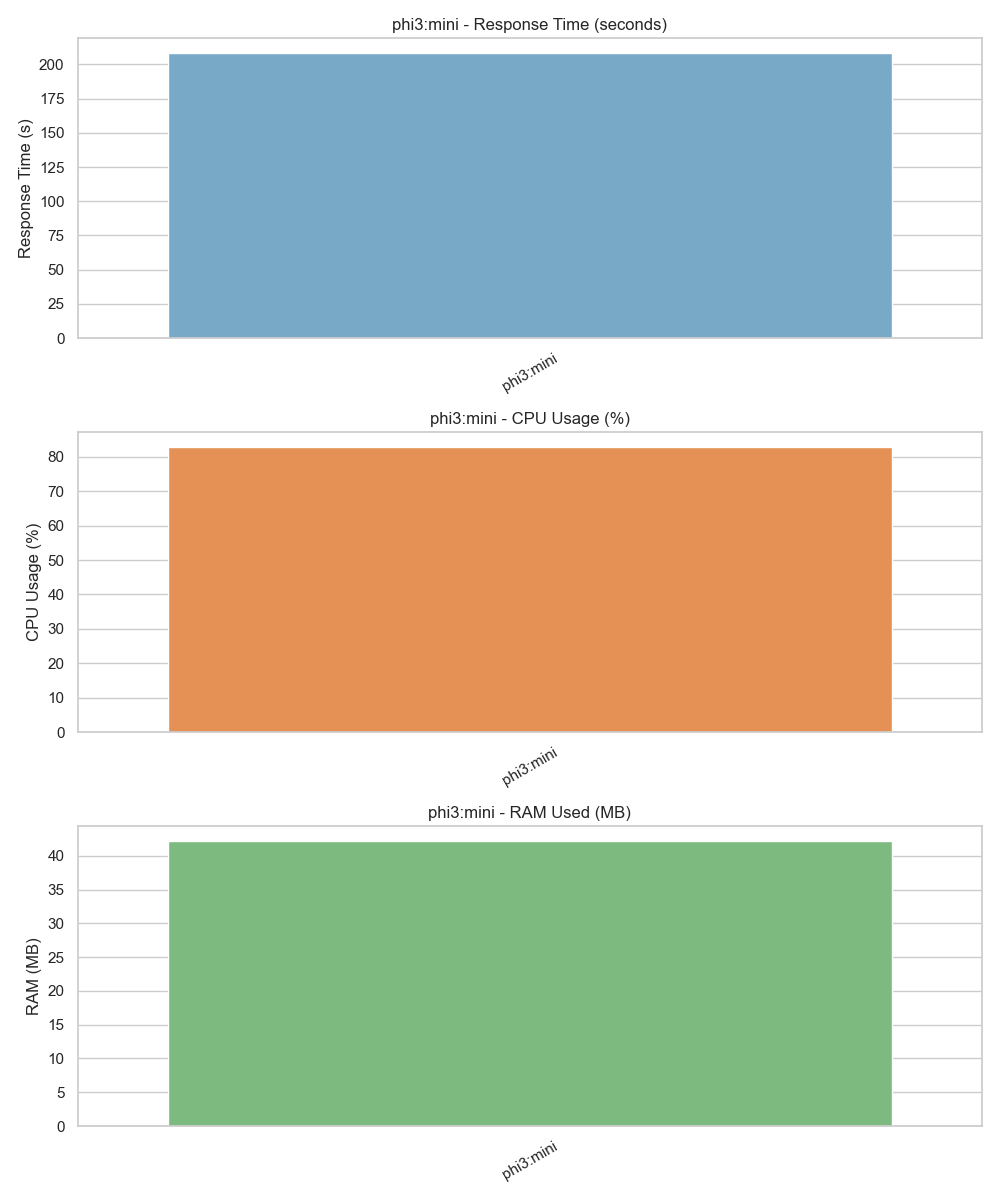
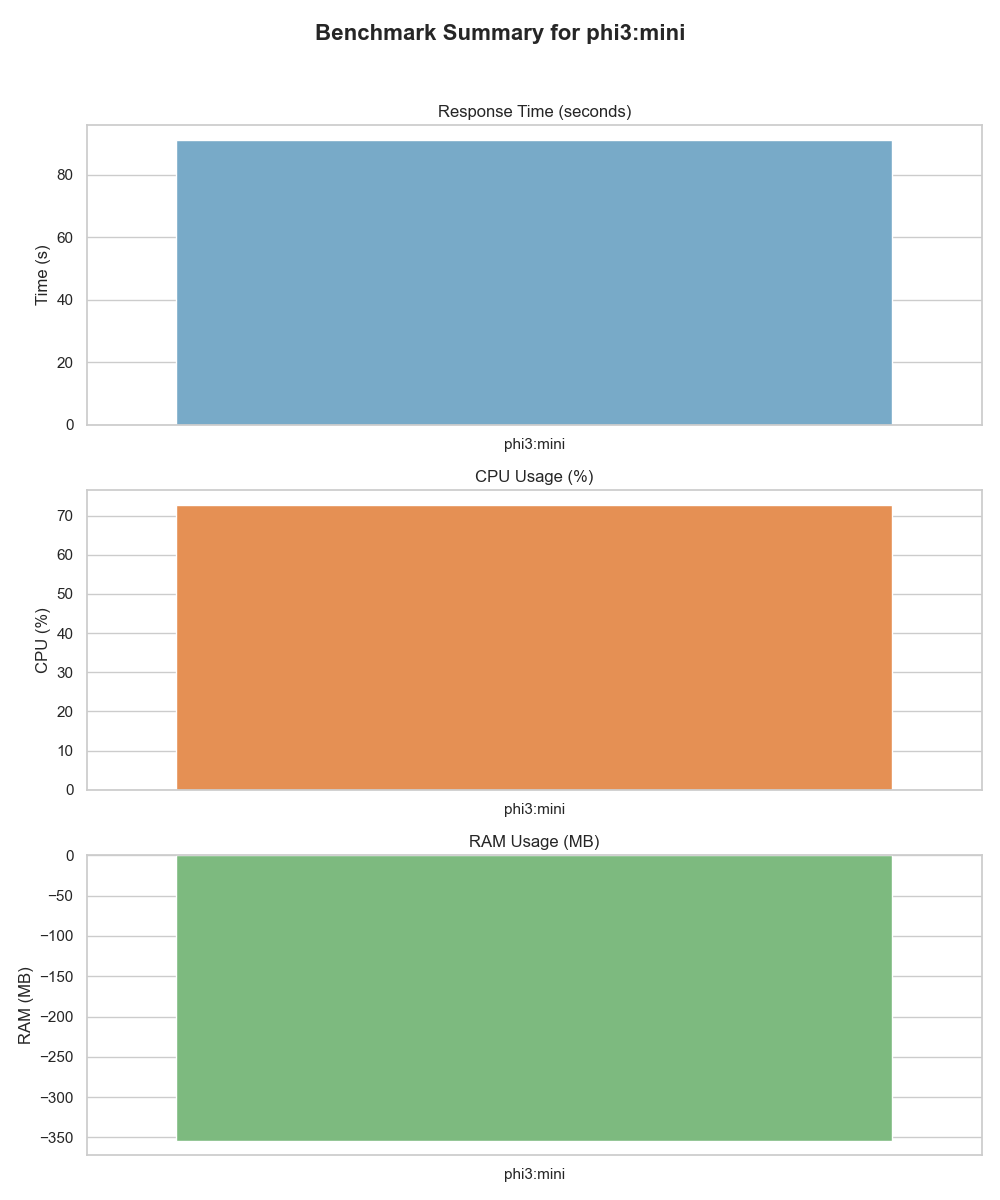
Refreshed benchmarks and graphs for models

diff --git a/src/analyze_llm.py b/src/analyze_llm.py
@@ -4,44 +4,51 @@ import seaborn as sns
 import os
 
 def plot_per_model_results(csv_path="data/processed/llm_benchmark_results.csv"):
+    # Load benchmark results
     df = pd.read_csv(csv_path)
     print(f"[✓] Loaded CSV with columns: {list(df.columns)}")
 
-    # Group by model
+    # Unique models
     models = df['model'].unique()
+    sns.set_theme(style="whitegrid")
 
     for model in models:
         model_df = df[df['model'] == model]
 
-        sns.set(style="whitegrid")
         fig, axs = plt.subplots(3, 1, figsize=(10, 12))
+        fig.suptitle(f"Benchmark Summary for {model}", fontsize=16, fontweight='bold')
 
-        # Response time
-        sns.barplot(data=model_df, x='model', y='response_time_sec', ax=axs[0], palette="Blues", legend=False)
-        axs[0].set_title(f"{model} - Response Time (seconds)")
-        axs[0].set_ylabel("Response Time (s)")
+        # Response Time
+        sns.barplot(data=model_df, x='model', y='response_time_sec', hue='model',
+                    ax=axs[0], palette='Blues', legend=False)
+        axs[0].set_title("Response Time (seconds)")
+        axs[0].set_ylabel("Time (s)")
+        axs[0].set_xlabel("")
 
-        # CPU usage
-        sns.barplot(data=model_df, x='model', y='cpu_percent_used', ax=axs[1], palette="Oranges", legend=False)
-        axs[1].set_title(f"{model} - CPU Usage (%)")
-        axs[1].set_ylabel("CPU Usage (%)")
+        # CPU Usage
+        sns.barplot(data=model_df, x='model', y='cpu_percent_used', hue='model',
+                    ax=axs[1], palette='Oranges', legend=False)
+        axs[1].set_title("CPU Usage (%)")
+        axs[1].set_ylabel("CPU (%)")
+        axs[1].set_xlabel("")
 
-        # RAM usage
-        sns.barplot(data=model_df, x='model', y='ram_used_mb', ax=axs[2], palette="Greens", legend=False)
-        axs[2].set_title(f"{model} - RAM Used (MB)")
+        # RAM Used
+        sns.barplot(data=model_df, x='model', y='ram_used_mb', hue='model',
+                    ax=axs[2], palette='Greens', legend=False)
+        axs[2].set_title("RAM Usage (MB)")
         axs[2].set_ylabel("RAM (MB)")
+        axs[2].set_xlabel("")
 
+        # Clean x-axis labels
         for ax in axs:
-            ax.set_xlabel("")
-            ax.set_xticklabels(ax.get_xticklabels(), rotation=30)
+            ax.tick_params(axis='x', rotation=0)
 
-        plt.tight_layout()
-
+        plt.tight_layout(rect=[0, 0, 1, 0.96])  # Make space for suptitle
         safe_name = model.replace(":", "-")
-        output_path = os.path.join("data", "processed", f"llm_benchmark_summary_{safe_name}.png")
-        plt.savefig(output_path)
-        print(f"[✓] Saved plot for {model} at {output_path}")
+        output_file = f"data/processed/llm_benchmark_summary_{safe_name}.png"
+        plt.savefig(output_file)
         plt.close()
+        print(f"[✓] Saved plot: {output_file}")
 
 if __name__ == "__main__":
     plot_per_model_results()

diff --git a/data/processed/phi3-mini_output.md b/data/processed/phi3-mini_output.md
@@ -1,0 +1,7 @@
+Supervised Machine Learning is a type of algorithm that learns from labeled data to predict or classify new data based on past observations. It requires inputting both features (input variables) and labels into the model during its training phase. The goal is for supervised learning algorithms to map inputs, observe how these mappings relate with outputs in historical datasets, learn this relationship'in a process called 'training',and then apply what it has learned to new data to predict outcomes or classifications (output variables). Supervised ML techniques include linear regression and logistic regression. 
+
+An example of supervised learning is email spam detection where emails are labeled as either "spam" or "not-spam". A machine learning model, trained with this historical data can then learn to recognize patterns in the text that distinguish between these two classes (e.g., specific words and phrases) so it could automatically classify new incoming emails into one of those categories based on their content.
+
+Unsupervised Machine Learning is a type where algorithms are used without labeled input, aiming instead at finding hidden patterns or structures within the data. These types do not predict outcomes but try to categorize the inputs (also known as 'clustering') and reducing dimensions of datasets in preparation for other ML methods such as supervised learning techniques through a process called 'dimensionality reduction'. Unsupervised Machine Learning is often used when labeled examples are expensive, difficult or impossible to label. Techniques include K-means clustering, hierarchical/agglomerative clustering and Principal Component Analysis (PCA).
+
+An example of unsupervised learning would be customer segmentation in a marketing context where the aim is not necessarily predict outcomes but rather discover inherent patterns. By feeding demographic information about customers into an algorithm like K-means, it can group them together based on their similarities without any predefined labels or categories (i.e., age ranges, income levels), and market to each of the segments with targeted campaigns that are more likely to resonate with that specific cluster's characteristics.
